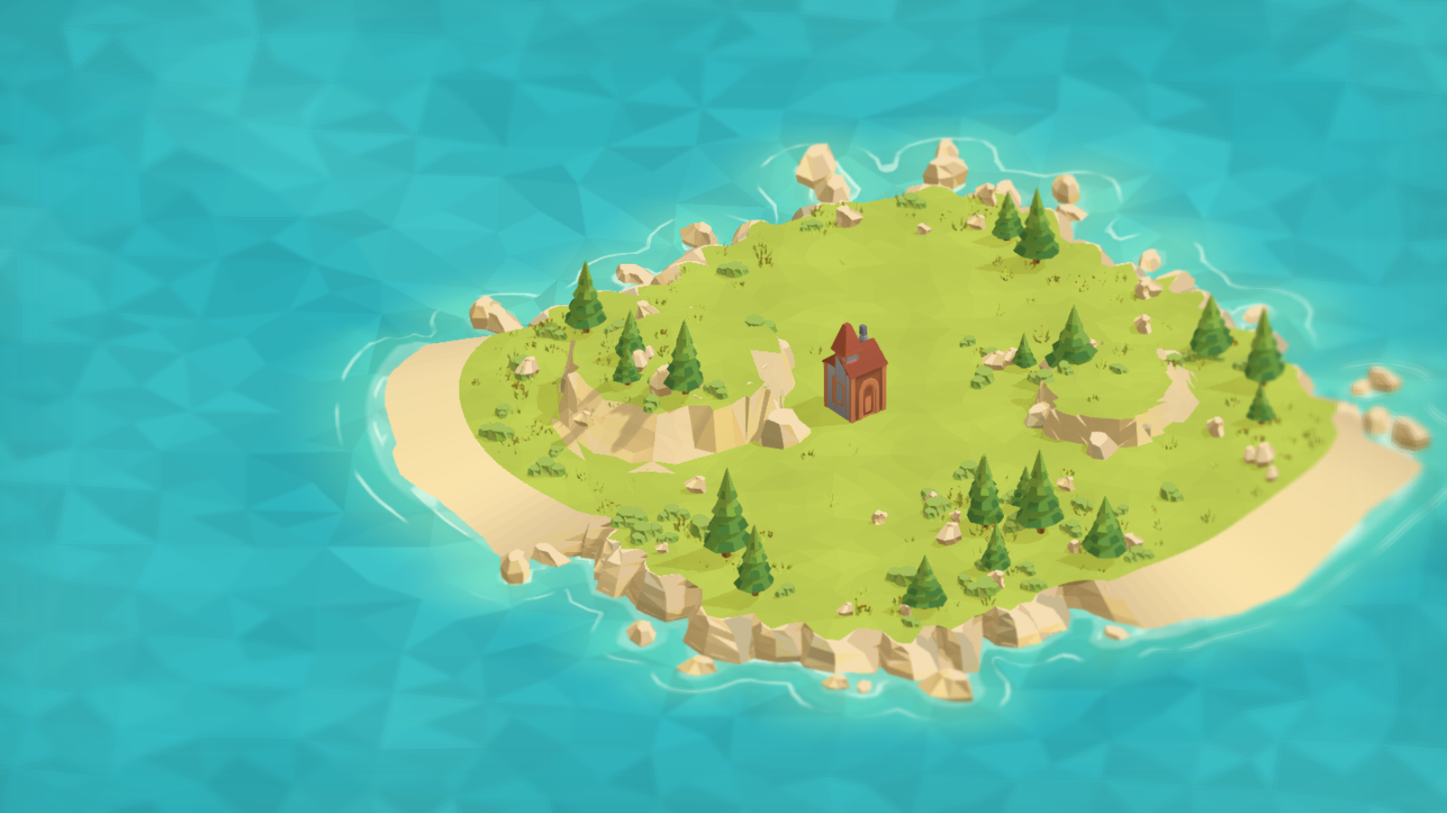
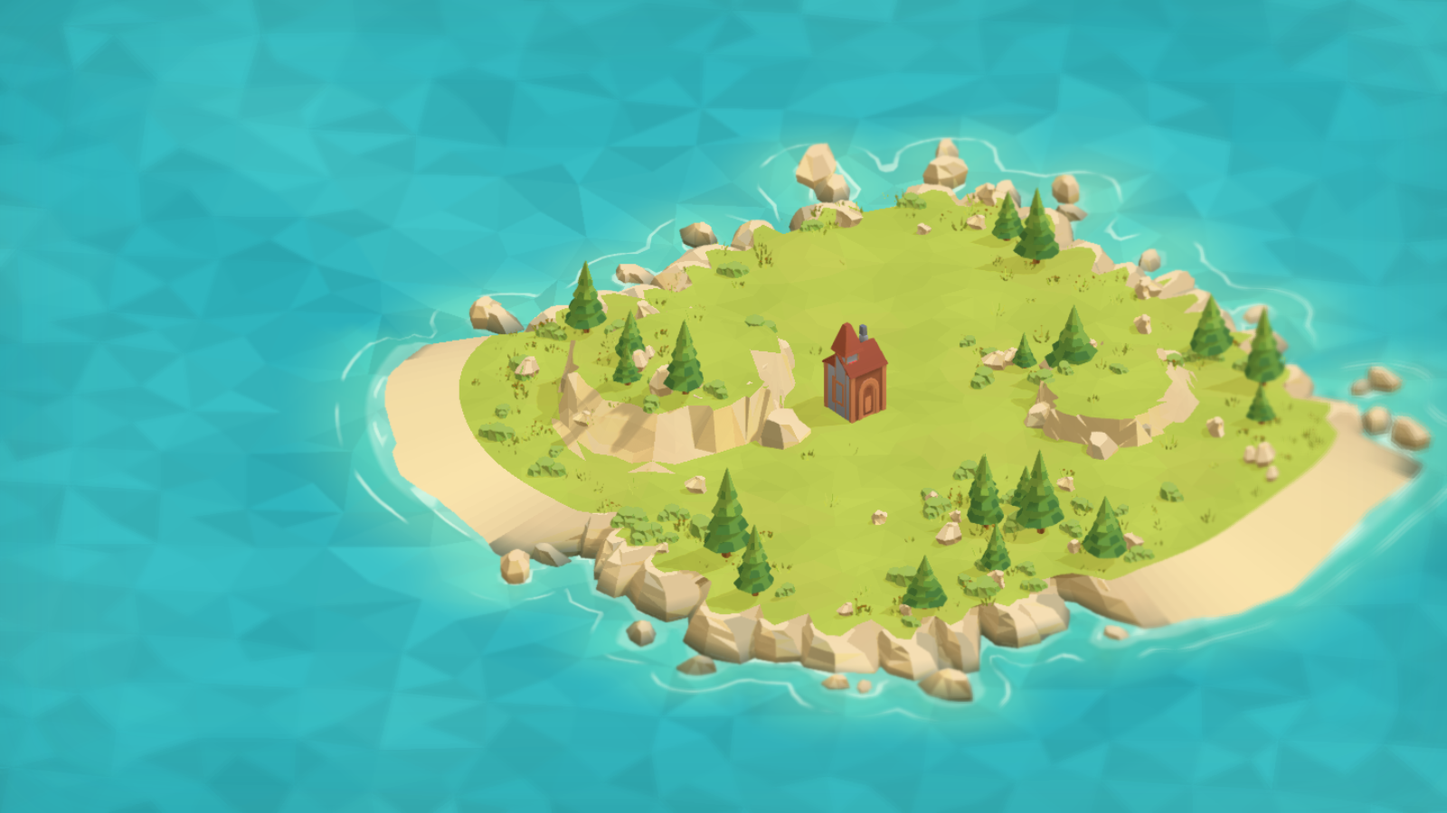
Soften turf edge and paint coastal rocks with wet shading

diff --git a/src/scene/environment.ts b/src/scene/environment.ts
@@ -13,6 +13,7 @@ import {
   cliffLandRadius,
 } from './cliff-layout.js';
 import { cliffRockGeometry } from './cliffs.js';
+import { grassPigment, rockPigment } from './surface-color.js';
 export { beachInfluence } from './cliff-layout.js';
 
 type Point = [number, number, number];
@@ -302,11 +303,12 @@ export function environmentGeometry(board: Board, buildings: Building[], spread 
   const world = createWorld(board.seed ?? 0);
   const positions: number[] = [],
     colors: number[] = [];
-  function triangle(a: Point, b: Point, c: Point, color: number[]) {
+  function triangle(a: Point, b: Point, c: Point, color: number[], stone = false) {
     // Материалы получают исходный цвет: свет и тени рассчитывает Babylon.
     for (const point of [a, b, c]) {
       positions.push(6 + (point[0] - 6) * spread, point[1], 6 + (point[2] - 6) * spread);
-      colors.push(...color.map((n) => Math.min(1, n / 255)), 1);
+      const pigment = stone ? rockPigment(...point, color) : color;
+      colors.push(...pigment.map((n) => Math.min(1, n / 255)), 1);
     }
   }
   const random = randomSequence(world.seed ^ 0x29e0b51);
@@ -360,7 +362,13 @@ export function environmentGeometry(board: Board, buildings: Building[], spread 
         ? [232 + variation, 207 + variation, 158 + variation * 0.7]
         : [186 + variation, 202 + variation, 81 + variation * 0.6];
     // Bowyer-Watson даёт CCW в XZ; в правой системе вверх смотрит обратный обход.
-    triangle(points[0], points[2], points[1], color);
+    triangle(
+      points[0],
+      points[2],
+      points[1],
+      steep > 0.95 ? color : grassPigment(x, z, color),
+      steep > 0.95,
+    );
   }
 
   const radial = (angle: number, r: number, y: number): Point => [
@@ -386,8 +394,8 @@ export function environmentGeometry(board: Board, buildings: Building[], spread 
         d = ledge(i, band + 1);
       const facet = Math.sin(angleAt(i) * 9 + world.seed) * 3;
       const color = [224 + sand * 23 + facet, 198 + sand * 27 + facet, 152 + sand * 17 + facet];
-      triangle(a, b, c, color);
-      triangle(a, c, d, color);
+      triangle(a, b, c, color, sand < 0.4);
+      triangle(a, c, d, color, sand < 0.4);
     }
   }
   for (const spec of [
@@ -400,7 +408,7 @@ export function environmentGeometry(board: Board, buildings: Building[], spread 
         (offset) => rock.positions.slice(i + offset, i + offset + 3) as Point,
       );
       const color = rock.colors.slice((i / 3) * 4, (i / 3) * 4 + 3).map((value) => value * 255);
-      triangle(points[0], points[1], points[2], color);
+      triangle(points[0], points[1], points[2], color, true);
     }
   }
   const layout = environmentLayout(board, buildings);
@@ -418,7 +426,13 @@ export function environmentGeometry(board: Board, buildings: Building[], spread 
       z + ((px * si + pz * co) * scale) / spread,
     ]);
     for (const f of model.f)
-      triangle(points[f[0]], points[f[1]], points[f[2]], sceneNaturePalette[f[3]] ?? model.c[f[3]]);
+      triangle(
+        points[f[0]],
+        points[f[1]],
+        points[f[2]],
+        sceneNaturePalette[f[3]] ?? model.c[f[3]],
+        asset.startsWith('rock'),
+      );
   }
   const data = new VertexData();
   data.positions = positions;

diff --git a/src/scene/cliff-layout.ts b/src/scene/cliff-layout.ts
@@ -44,8 +44,8 @@ export function coastalCliffs(seed: number, buildings: Building[] = []): CliffSp
       z = 6 + Math.sin(angle) * radius;
     const width = 0.7 + next() * 1.0,
       depth = 0.95 + next() * 0.7;
-    // Корона целиком ниже дерна. Наружу выходят только сколотые боковые
-    // грани; отдельные круглые крышки камней не образуют берег.
+    // Внутренняя корона под дёрном, наружная скошена к воде.
+    // Плоская крышка не подпирает траву широким нависающим козырьком.
     const top = -0.002;
     const bottom = -1.08 - next() * 0.24;
     const shoulderHeight = 0.29 + next() * 0.42;
@@ -62,6 +62,7 @@ export function coastalCliffs(seed: number, buildings: Building[] = []): CliffSp
       bottom,
       shoulderHeight,
       profile: 'layered',
+      crownSlope: 0.16 + 0.06 * Math.sin(i * 2.3),
       crownScale,
       lean,
       rotation,
@@ -203,11 +204,10 @@ function cliffContours(seed: number, buildings: Building[]): CliffContours {
       const coast = world.coastRadius(theta);
       const landCut = outerSectionRadius(theta, sections[0]);
       const sand = beachInfluence(theta, seed);
-      // No rock should leave a green shelf suspended over a fissure. An absent
-      // section retreats slightly inland; open beaches keep their old contour.
-      // Дёрн закрывает весь верх заглублённых камней и не проваливается
-      // в круглые впадины между ними. Снаружи видны только скальные бока.
-      const land = Number.isFinite(landCut) ? landCut - 0.035 : coast - 0.3;
+      // Дёрн следует верхнему сечению скошенной короны. Малый отступ
+      // оставляет каменный скос снаружи и убирает зелёные козырьки.
+      // Во впадинах край отступает внутрь, пляжи сохраняют свой контур.
+      const land = Number.isFinite(landCut) ? landCut - 0.045 : coast - 0.3;
       const blend = Math.max(0, Math.min(1, sand / 0.18));
       const beachBlend = blend * blend * (3 - 2 * blend);
       contours.land[i] = land * (1 - beachBlend) + coast * beachBlend;

diff --git a/tests/surface-color.test.js b/tests/surface-color.test.js
@@ -1,0 +1,30 @@
+import test from 'node:test';
+import assert from 'node:assert/strict';
+import { grassPigment, rockPigment } from '../src/scene/surface-color.ts';
+
+const stone = [224, 198, 152];
+
+test('мокрые скалы темнее сухих, а граница намокания не образует ровную полосу', () => {
+  const wet = rockPigment(2, -0.7, 3, stone);
+  const dry = rockPigment(2, 0, 3, stone);
+  wet.forEach((channel, i) => assert(channel < dry[i] * 0.7));
+  const ratios = Array.from(
+    { length: 20 },
+    (_, x) => rockPigment(x, -0.5, 3, stone)[0] / rockPigment(x, 0, 3, stone)[0],
+  );
+  assert(Math.max(...ratios) - Math.min(...ratios) > 0.08);
+});
+
+test('цветовые пятна воспроизводимы и остаются в диапазоне палитры', () => {
+  const grass = [166, 191, 66];
+  const samples = [];
+  for (let i = 0; i < 100; i++) {
+    const point = [(i % 10) * 0.7, Math.floor(i / 10) * 0.7];
+    const painted = grassPigment(...point, grass);
+    assert.deepEqual(painted, grassPigment(...point, grass));
+    samples.push(painted);
+    for (const color of [painted, rockPigment(point[0], -i / 20, point[1], stone)])
+      assert(color.every((channel) => Number.isFinite(channel) && channel >= 0 && channel <= 255));
+  }
+  assert(new Set(samples.map((color) => color.join(','))).size > 10);
+});

diff --git a/src/scene/surface-color.ts b/src/scene/surface-color.ts
@@ -1,0 +1,25 @@
+type Color = readonly number[];
+const clamp = (n: number) => Math.max(0, Math.min(1, n));
+const smooth = (n: number) => {
+  const t = clamp(n);
+  return t * t * (3 - 2 * t);
+};
+
+/** Broad pigment patches stay tied to world coordinates, like painted scenery. */
+export function grassPigment(x: number, z: number, base: Color): number[] {
+  const patch = Math.sin(x * 1.71 + Math.sin(z * 1.2)) * Math.cos(z * 1.43 - x * 0.24);
+  const ochre = smooth((patch - 0.12) * 1.8) * 0.22;
+  return base.map((channel, i) => channel * (1 - ochre) + [207, 194, 92][i] * ochre);
+}
+
+/** A hand-painted wet edge: darker, cooler stone near the water, matte above. */
+export function rockPigment(x: number, y: number, z: number, base: Color): number[] {
+  const wash = Math.sin(x * 2.7 + Math.cos(z * 1.8)) * Math.cos(z * 2.2 - x * 0.4);
+  const warm = smooth(wash * 0.9 + 0.1) * 0.19;
+  const tide = -0.39 + Math.sin(x * 3.3 + z * 1.7) * 0.035 + Math.cos(z * 4.1) * 0.02;
+  const wet = smooth((tide - y) / 0.31);
+  return base.map((channel, i) => {
+    const painted = channel * (1 - warm) + [232, 187, 139][i] * warm;
+    return painted * (1 - wet) + painted * [0.51, 0.62, 0.66][i] * wet;
+  });
+}

diff --git a/docs/models.md b/docs/models.md
@@ -60,7 +60,7 @@
 
 [Общий вид в игре](../assets/models/island-nature/in-game-preview.png) · [Визуальный референс](../assets/art/island-reference.png) · [Игровые меши](../assets/models/island-nature/models.json) · [Генератор исходников](../scripts/create-nature-models.mjs)
 
-Девять авторских низкополигональных моделей: три хвойных дерева, три камня, куст, трава и цветы. Всего 676 треугольников в библиотеке исходников; число треугольников окружения зависит от расстановки экземпляров (19 741 треугольник и 59 223 вершины для seed 123456789 без зданий после прохода 11 октября, включая землю, резные уступы и два пляжа; анимированная вода выделена в отдельную сетку).
+Девять авторских низкополигональных моделей: три хвойных дерева, три камня, куст, трава и цветы. Всего 676 треугольников в библиотеке исходников; число треугольников окружения зависит от расстановки экземпляров (19 707 треугольников и 59 121 вершина для seed 123456789 без зданий после прохода 11 октября, включая землю, резные уступы и два пляжа; анимированная вода выделена в отдельную сетку).
 
 GLB можно импортировать в Blender; JSON содержит те же вершины, треугольники и цвета палитры для автономной игры. Единицы соответствуют игровым; Y направлена вверх, основание объекта стоит в нуле. Никаких изображений-текстур, внешних запросов, скелетов или анимаций. Материал GLB матовый с vertex colors; в игре цвет освещают DirectionalLight и HemisphericLight, с сохранением плоских нормалей граней окружения. Исходные GLB не изменены. Художественный проход 11 октября применяет в игре более яркую палитру хвои и тёплого камня; рельеф с двумя плато, примерно 75% резных высоких бортов, два пологих пляжа и скальный берег из перекрывающихся объёмных глыб и глубоких расселин и расширенная в √2 территория формируются в `scene/environment.ts`, `scene/cliffs.ts`, `scene/cliff-layout.ts`, `scene/terrain.ts` и `scene/space.ts`. При расширении острова меняются расстояния между объектами, а деревья и камни сохраняют пропорции. Подводные основания камней удлинены только в игровой сборке.
 
@@ -73,7 +73,7 @@ GLB можно импортировать в Blender; JSON содержит те
 
 Процедурная глыба основана на форме `rock-large`: 42 треугольника и 126 вершин для уступов; 84 треугольника и 252 вершины для берегового варианта с четырьмя видимыми ярусами и подводным основанием. Оба варианта имеют плоские нормали и замкнутую геометрию; плечи неровные, наружная корона скошена. Отдельных `.blend` и GLB у этого варианта пока нет; он строится при сборке сцены и входит в общий буфер окружения. Размеры, повороты, наклон внутрь берега и высота плеча воспроизводимы по seed. Основные короны возвышенностей скрыты под травой; это проверяется на пяти seed.
 
-Перекрывающиеся объёмные глыбы образуют видимые грани основного берега: узкие короны, четыре яруса неровных плеч, расширение к воде и глубокие стыки. Кромка травы отступает на 0,035 логической единицы внутрь каменного верха. Заглублённая общая поверхность закрывает промежутки; у воды остаются низкие отдельные валуны. Верх скального бока использует те же вершины, что и дёрн. Небольшой наклон сохраняет вертикальную массу; ватерлиния рассчитывается по сечениям самих глыб на Y=-0,68. Внутренние плато используют ту же форму с низкими передними глыбами; два пологих песчаных берега сохранены. Превью проверено в браузере без тяжёлого рендера. Статус — следующая художественная итерация, окончательное согласование владельцем не получено.
+Перекрывающиеся объёмные глыбы образуют видимые грани основного берега: узкие короны, четыре яруса неровных плеч, расширение к воде и глубокие стыки. Кромка травы следует сечению наклонной короны и отступает на 0,045 логической единицы внутрь камня; наружный верх скошен к воде вместо горизонтальной полки. Заглублённая общая поверхность закрывает промежутки; у воды остаются низкие отдельные валуны. Верх скального бока использует те же вершины, что и дёрн. Небольшой наклон сохраняет вертикальную массу; ватерлиния рассчитывается по сечениям самих глыб на Y=-0,68. Внутренние плато используют ту же форму с низкими передними глыбами; два пологих песчаных берега сохранены. Превью проверено в браузере без тяжёлого рендера. Статус — следующая художественная итерация, окончательное согласование владельцем не получено.
 
 
 ## island-nature/coast-surface — общий стык травы и скал
@@ -81,3 +81,8 @@ GLB можно импортировать в Blender; JSON содержит те
 [Профиль и контур](../src/scene/cliff-layout.ts) · [Построение меша](../src/scene/environment.ts) · [Превью](../assets/models/island-nature/in-game-preview.png)
 
 Процедурная поверхность берега: 192 сегмента, четыре пояса, 1536 треугольников. Верхние рёбра полностью совпадают с рёбрами травы; независимых щелей или нависающей зелёной кромки нет. Основа заглублена под объёмные глыбы и закрывает их стыки; видимый профиль задают ярусные экземпляры по 84 треугольника. Для seed 123456789 используется 31 береговая глыба. Два песчаных участка сохраняют пологий спуск. Отдельного `.blend`/GLB пока нет. Статистика общего окружения выше включает этот меш.
+
+
+### Художественная окраска — 11 октября 2026
+
+[Процедурная палитра](../src/scene/surface-color.ts) добавляет траве охристые пятна, скалам — тёплые цветовые заливки, а камням у воды — более тёмную прохладную зону намокания с неровной верхней границей. Цвета вычисляются при сборке меша в мировых координатах; текстурных изображений, дополнительных материалов и проходов отрисовки нет. Окраска применяется и к отдельным камням, и к скальным уступам, и к основе берега. Исходные GLB не меняются.

diff --git a/docs/architecture.md b/docs/architecture.md
@@ -140,7 +140,7 @@ Dev-сервер и сохранение мастерской вызывают `
 
 `scene/ocean.ts` создаёт конечную сетку 48×48 логических единиц с шагом 1/1,5 (4 608/2 048 треугольников), без дальних колец. Вершины разделены для постоянного цвета каждой грани; совпадающие координаты сохраняют общие рёбра при GPU-смещении Y и XZ. `world` преобразует позиции в мировые координаты для нормали и отражения, поле берега остаётся логическим. RawTexture 256² хранит расстояние до общей с геометрией функции `shorelineRadius` и камней. Треугольная интерполяция расстояния и линейный шум создают угловатые фронты; локальный ритм идёт по времени/3. MirrorTexture 256²/128² обновляется каждый отображаемый кадр движения камеры и до 4/2 Гц в покое.
 
-`scene/environment.ts` триангулирует нерегулярные декартовы точки внутри закреплённой береговой границы с последующими переворотами рёбер. `scene/cliffs.ts` строит объёмные глыбы для высоких плато и берега, а `scene/cliff-layout.ts` задаёт расстановку и сечения камней на пяти высотах. Заглублённая основа берега связана с землёй общими верхними вершинами и закрывает промежутки между глыбами. Видимые боковые грани образуют ярусные глыбы с узкими коронами, четырьмя рядами неровных плеч над водой и расширенным основанием. Край травы утоплен внутрь корон на 0,035 логической единицы. Ватерлиния учитывает их реальные сечения; два песчаных участка остаются пологими. Ломаные края травы и воды имеют одинаковые 192 направления; функция ватерлинии пересекает луч с настоящим ребром меша, не интерполирует радиусы по окружности. Контуры кешируются по seed и расположению портов. `scene/terrain.ts` задаёт два плато и выравнивание площадок; те же высоты используют здания и жители. Исходные GLB не меняются, подводные основания отдельных камней удлинены при сборке сцены.
+`scene/environment.ts` триангулирует нерегулярные декартовы точки внутри закреплённой береговой границы с последующими переворотами рёбер. `scene/cliffs.ts` строит объёмные глыбы для высоких плато и берега, а `scene/cliff-layout.ts` задаёт расстановку и сечения камней на пяти высотах. Заглублённая основа берега связана с землёй общими верхними вершинами и закрывает промежутки между глыбами. Видимые боковые грани образуют ярусные глыбы с узкими коронами, четырьмя рядами неровных плеч над водой и расширенным основанием. Наружный верх корон скошен к воде; край травы следует его сечению с отступом 0,045 логической единицы. `scene/surface-color.ts` задаёт охристые пятна травы, тёплые заливки скал и более тёмную мокрую зону около воды. Цвета записываются в вершины при сборке и привязаны к мировым координатам; дополнительных текстур и проходов нет. Ватерлиния учитывает их реальные сечения; два песчаных участка остаются пологими. Ломаные края травы и воды имеют одинаковые 192 направления; функция ватерлинии пересекает луч с настоящим ребром меша, не интерполирует радиусы по окружности. Контуры кешируются по seed и расположению портов. `scene/terrain.ts` задаёт два плато и выравнивание площадок; те же высоты используют здания и жители. Исходные GLB не меняются, подводные основания отдельных камней удлинены при сборке сцены.
 
 Две песчаные бухты имеют отдельный пологий профиль до отметки ниже воды; крупные скалы не перекрывают выходы на пляж. Прозрачные промежутки панели строительства пропускают указатель к карте.
 

diff --git a/docs/decisions.md b/docs/decisions.md
@@ -251,3 +251,12 @@
 **Решение:** отдельный профиль `layered` сохраняет обычные глыбы уступов, но строит береговые из шести колец: подводного основания и четырёх видимых ярусов. Высоты углов и ширины неровные; верх уже основания. Трава отступает внутрь верхнего сечения на 0,035 логической единицы.
 
 **Цена:** 84 треугольника на береговую глыбу; 19 741 треугольник окружения для seed 123456789. Геометрия остаётся в общем меше. Проверяются замкнутость, неровность ярусов, расширение к воде и стык с дёрном.
+
+
+## ADR-030: скошенная кромка берега и рисованная палитра
+
+**Потребность:** убрать плоское нависание травы и сделать текстурирование более мультяшным, с мокрыми тёмными скалами у воды.
+
+**Решение:** наружная половина короны береговых глыб скошена вниз с разным наклоном. Контур дёрна следует верхнему сечению с небольшим отступом внутрь камня. Процедурные цветовые пятна травы и камня записываются в vertex colors при построении. Затемнение нижней части камня зависит от мировой высоты и неровной границы намокания, общей для глыб, скального основания и отдельных валунов.
+
+**Цена и границы:** 19 707 треугольников окружения на seed 123456789 без зданий; новых текстурных загрузок, материалов и проходов нет. Намокание — художественная окраска, без физической симуляции или зеркального блеска. Проверяются общий шов, скошенная корона, более тёмный мокрый камень и воспроизводимость пятен.
